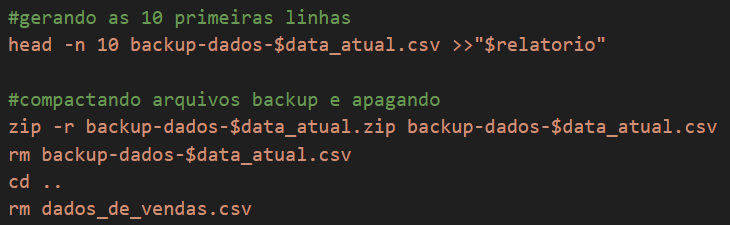
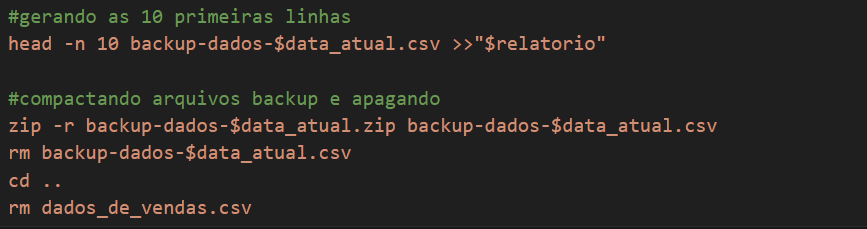
subindo mais explicações de codigo

diff --git a/SPRINTS/SPRINT_1/DESAFIO/README.MD b/SPRINTS/SPRINT_1/DESAFIO/README.MD
@@ -50,7 +50,7 @@ depois usou CD para entrar no diretorio vendas.
 ### Etapa 3 criação subdiretório e varial data
 * Aqui usando "mkdir backup/", Criou um subdiretório chamado backup dentro de vendas. com este comando "data_atual=$(date +"%Y%m%d")" Armazena a data atual no formato YYYYMMDD na variável data_atual.
 cp dados_de_vendas.csv backup/dados-vendas-$data_atual.csv: Copia o arquivo dados_de_vendas.csv para o diretório backup com um nome que inclui a data atual.
-![weber](/SPRINTS/SPRINT_1/EVIDÊNCIAS/13-bs.png)
+![weber](/SPRINTS/SPRINT_1/EVIDÊNCIAS/13-b.png)
 
 ### Etapa 4 Extração dsa Datas
 * neste trecho "data_so=$(date +"%Y%m%d %HH:%MM")",é feito Armazenamento da data e hora atuais no formato" YYYYMMDD HH:MM" para a variável "data_so".
